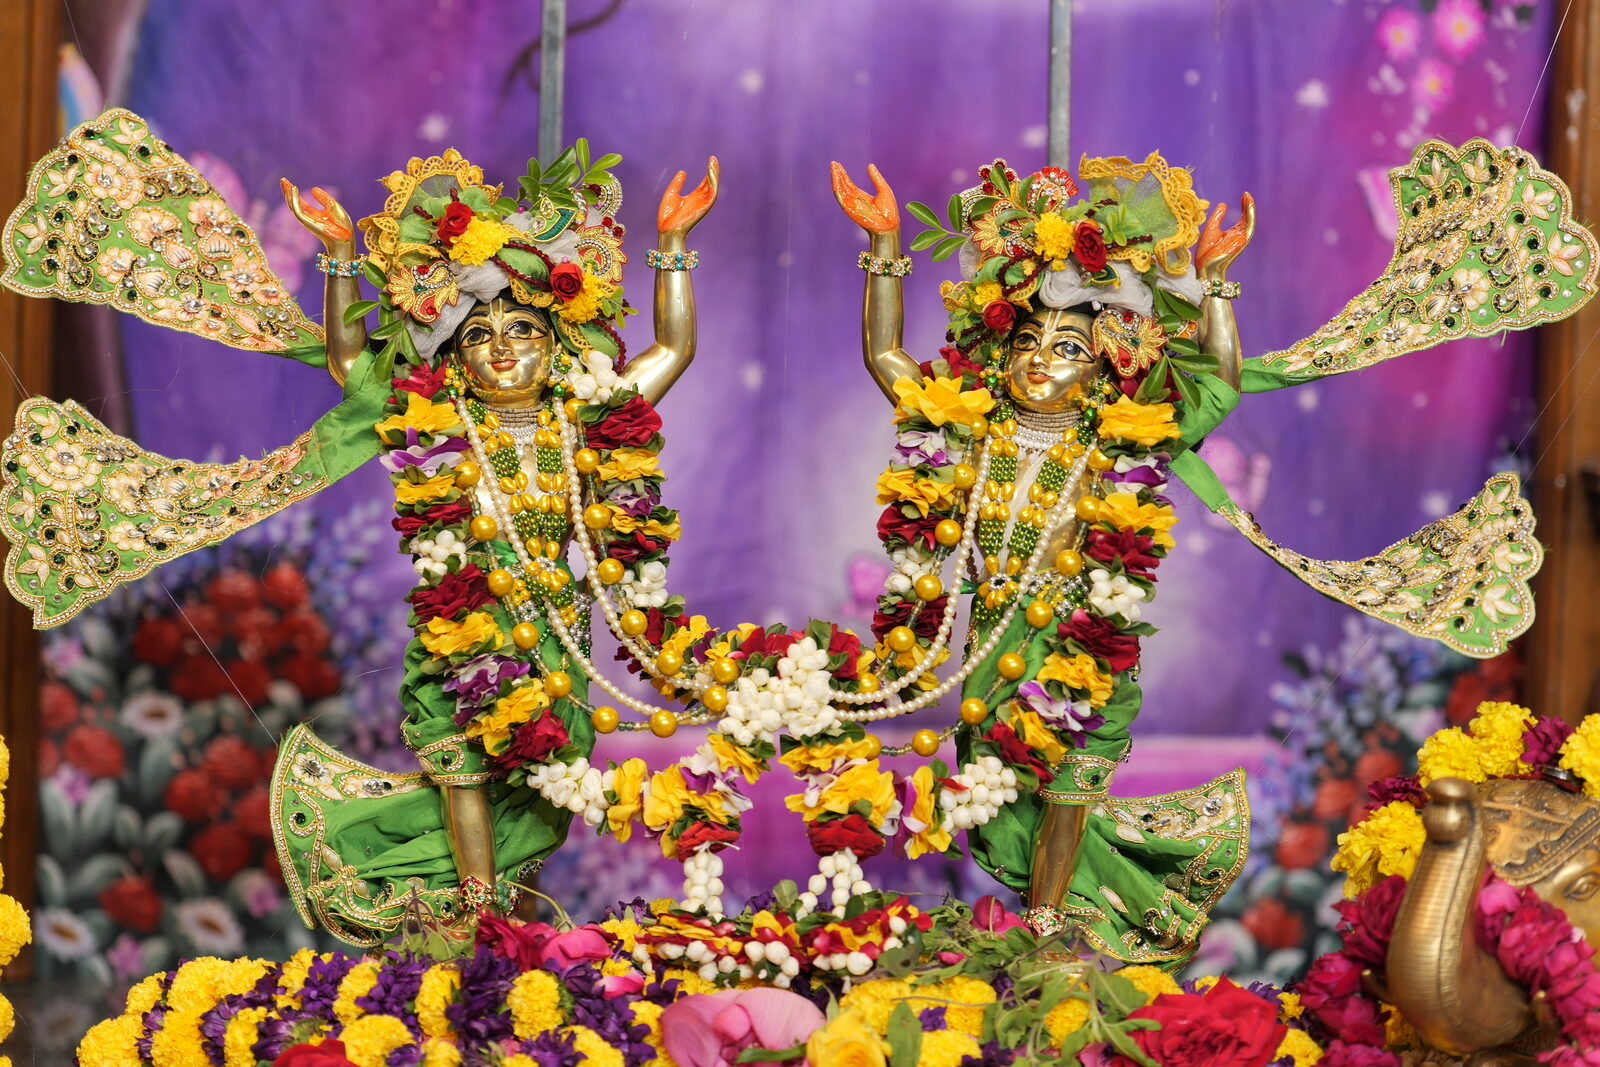
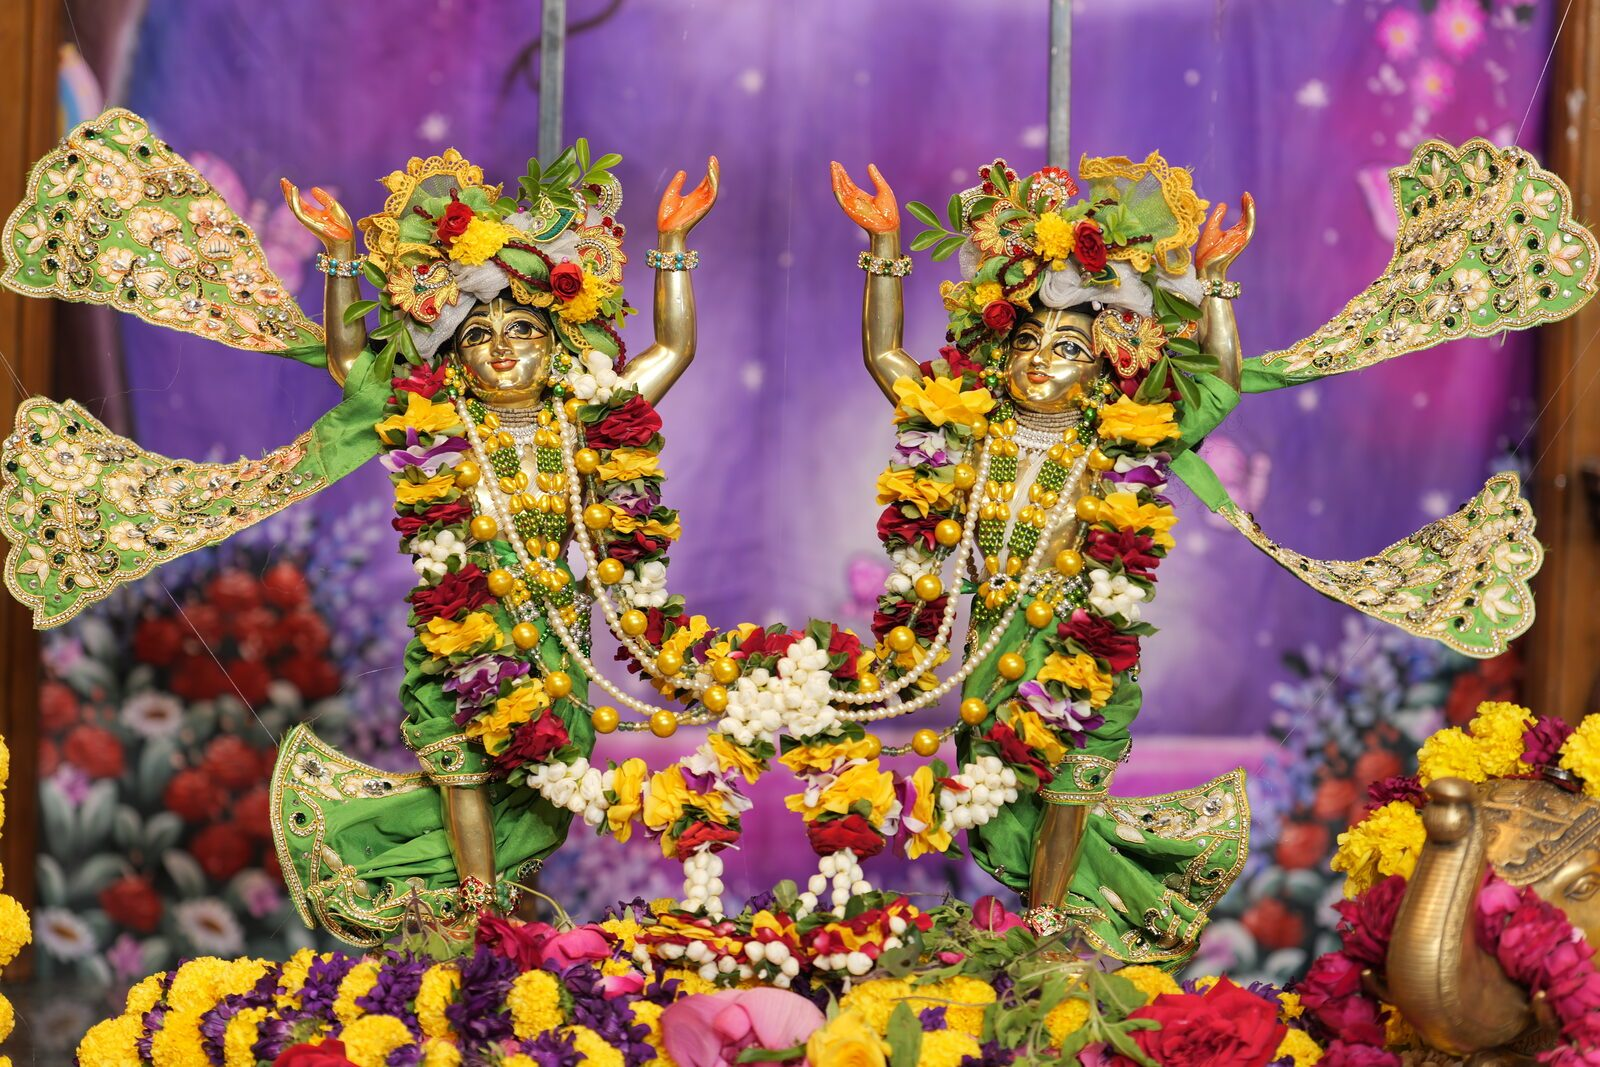
Speed up page loads: compress images, cache static assets, preconnect CDN
Investigated "how to make website fast" -- the site is on Render's
Starter plan (not free tier, so no cold-start delay), and the previous
gunicorn OOM-worker fix on the 512MB tier was already in place and
untouched.

Three concrete, low-risk wins found and applied:

- Recompressed all 13 JPEGs under static/images/ (deity photos, temple
  exterior shots, Live To Give banners) with Pillow at quality=82,
  optimize=True, progressive=True. These were saved at near-lossless
  quality for their actual display size -- total weight drops from
  5504KB to 4309KB (-22%, ~1.2MB). Spot-checked aerial-day.jpg at a
  500px preview and saw no visible quality loss.

- Added SEND_FILE_MAX_AGE_DEFAULT = 7 days in config.py. Nothing was
  telling browsers to cache /static files at all before this, so the
  logo, gallery photos, and style.css were being re-validated on every
  single page view instead of reused from cache on repeat visits.

- Added a preconnect hint for cdn.jsdelivr.net in base.html (Google
  Fonts already had one, jsDelivr -- which serves the render-blocking
  Bootstrap CSS -- didn't), shaving a bit of connection setup time off
  the critical rendering path.

Not done here (reviewed, not changed): database query patterns and
external script load order looked reasonable already. This covers the
clearest wins found, not an exhaustive performance audit.

Verified: python3 -m py_compile config.py, and re-parsed base.html
[…]

diff --git a/templates/base.html b/templates/base.html
@@ -29,6 +29,7 @@
 
   <link rel="preconnect" href="https://fonts.googleapis.com">
   <link rel="preconnect" href="https://fonts.gstatic.com" crossorigin>
+  <link rel="preconnect" href="https://cdn.jsdelivr.net" crossorigin>
   <link href="https://fonts.googleapis.com/css2?family=Playfair+Display:wght@600;700&family=Inter:wght@400;500;600;700&display=swap" rel="stylesheet">
   <link href="https://cdn.jsdelivr.net/npm/bootstrap@5.3.3/dist/css/bootstrap.min.css" rel="stylesheet">
   <link href="{{ url_for('static', filename='style.css') }}" rel="stylesheet">

diff --git a/config.py b/config.py
@@ -21,6 +21,18 @@ class Config:
     # on SQLite (used for local/demo mode).
     SQLALCHEMY_ENGINE_OPTIONS = {"pool_pre_ping": True, "pool_recycle": 240}
 
+    # Without this, Flask doesn't send a Cache-Control max-age on files
+    # served from /static (logo, gallery photos, style.css) -- browsers
+    # end up re-validating every one of them on every single page view
+    # instead of just reusing what they already downloaded. 7 days is a
+    # reasonable middle ground for a site with no cache-busting/content-
+    # hashed filenames set up: long enough to meaningfully speed up
+    # repeat visits within the same week (a donor browsing several pages,
+    # or admin staff who are here constantly), short enough that a real
+    # asset update (a new gallery photo, a style.css tweak) shows up for
+    # everyone within a week even without a hard cache-clear.
+    SEND_FILE_MAX_AGE_DEFAULT = timedelta(days=7)
+
     # --- Razorpay ---
     # Leave these blank to run the app in DEMO MODE: the donation form will show
     # a "Simulate Payment Success" button instead of the real Razorpay checkout,
